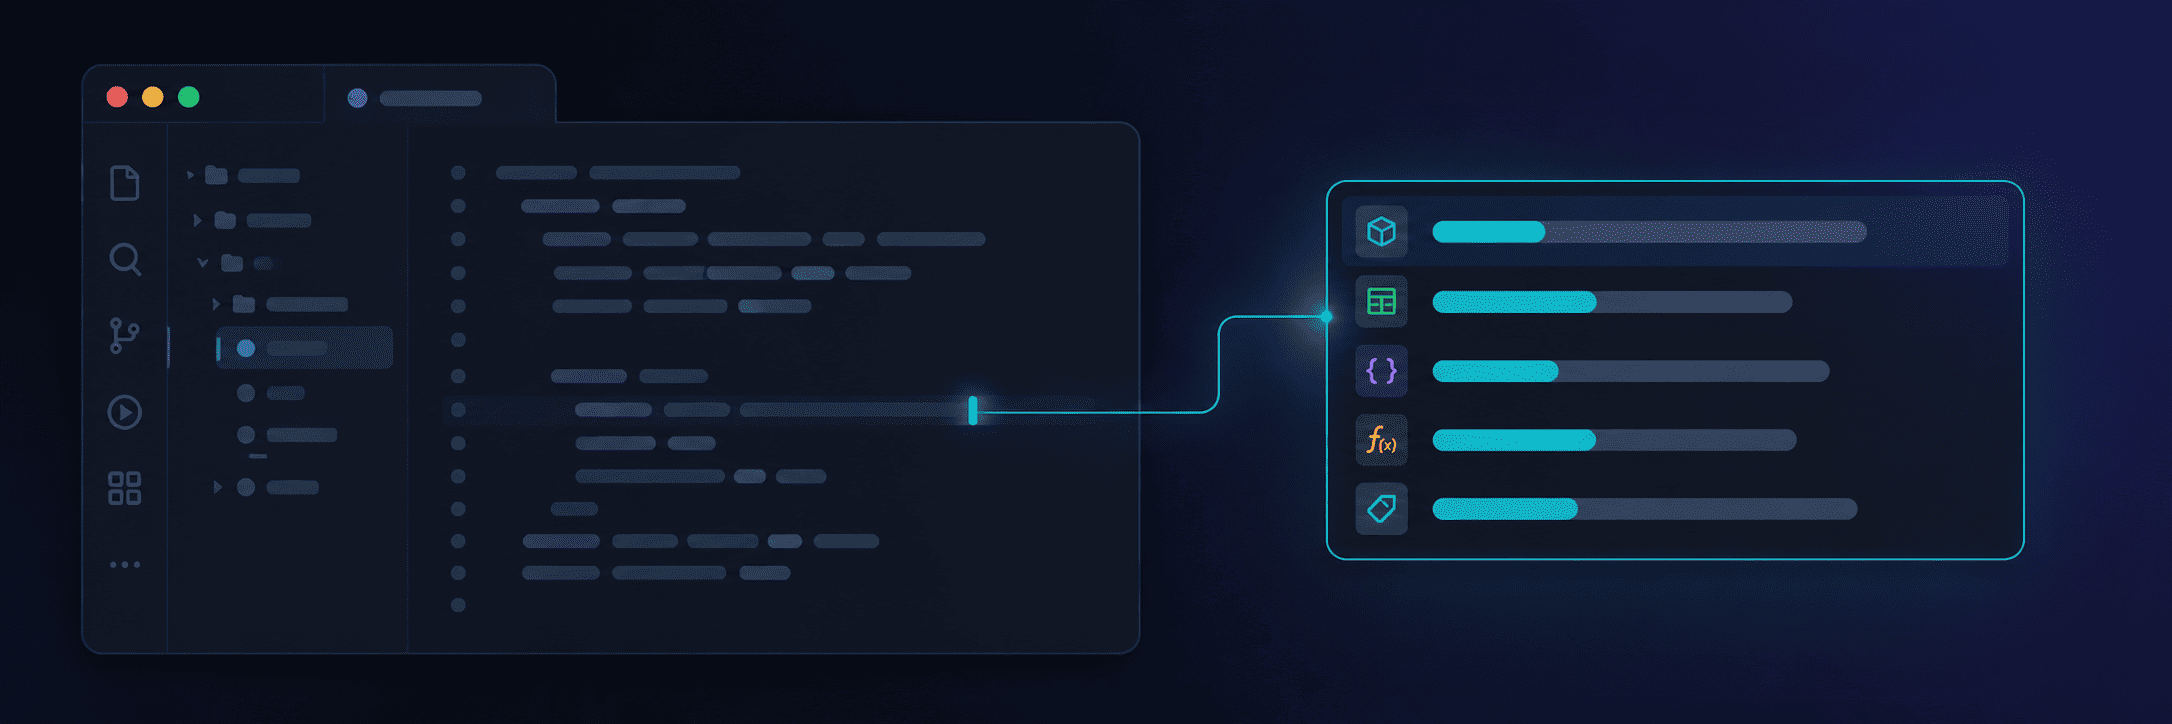
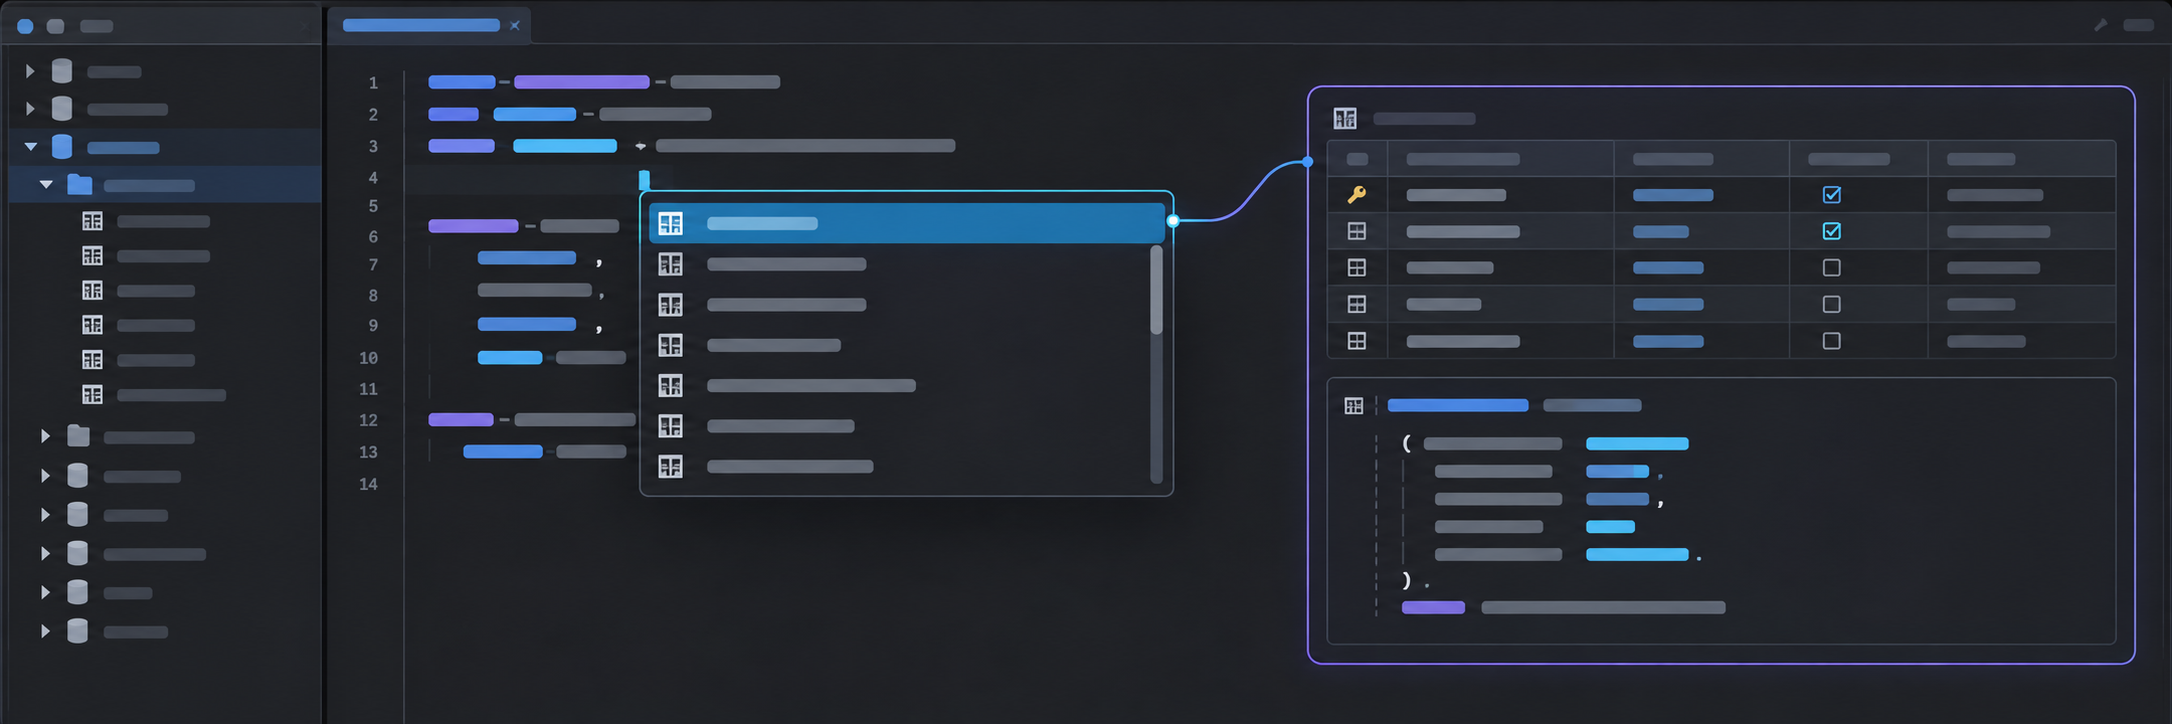
docs: 重製功能展示頁與 README 主視覺
- 調整單頁展示版面，加入中英文及明暗主題切換
- 選擇功能後自動播放，補齊操作示意動畫
- 更新首頁主視覺、替代文字與生成提示詞

diff --git a/docs/images/prompts.md b/docs/images/prompts.md
@@ -7,15 +7,27 @@
 ## `hero.png`
 
 ```text
-A wide modern developer-tool hero banner, 1200x400. Dark charcoal background with a
-subtle diagonal gradient toward deep indigo. On the left, an abstract stylized code
-editor panel: soft-focus rows of monospaced code in muted grey-blue, deliberately
-unreadable. On the right, a crisp floating autocomplete card with rounded corners, a
-thin light border and five list rows; each row has a small coloured glyph on the left
-and a horizontal bar standing in for a name, with the first few characters of each bar
-highlighted in bright cyan to suggest matched letters. A soft cyan glow links the
-editor to the card. Flat vector illustration, clean, high contrast, generous negative
-space. No logos, no people, no legible words or letters anywhere.
+Use case: ui-mockup
+Asset type: README hero image for SqlAssist, a SQL Server Management Studio 22 extension.
+Primary request: Create a polished, ultra-wide 3:1 developer-tool hero illustration
+showing the real core interaction: a dark SQL editor with an autocomplete popup, and a
+larger object-structure preview opening beneath it, both visually connected to the cursor.
+Scene/backdrop: SSMS-like charcoal interface, understated window chrome, query editor
+occupying the left and center. In the editor, a few restrained lines of syntax-colored
+SQL-shaped marks. The selected suggestion resembles a database table row. The preview
+presents a small table/schema grid and a short DDL code block. These should look like
+plausible technical UI, not a generic chatbot or AI dashboard.
+Style/medium: precise, high-end interface illustration, clean edges, subtle depth,
+restrained highlights.
+Composition/framing: panoramic 1200x400 proportion, all important panels within safe
+margins, balanced visual weight across the width; legible hierarchy when displayed 900px wide.
+Lighting/mood: focused, calm, professional; a subtle blue-cyan accent at the selected
+completion row and cursor, muted violet outline accents.
+Color palette: dark charcoal #252529, slate #34343a, blue-cyan #69bfe8, restrained
+violet #9489cc, white-grey text bars.
+Constraints: no actual readable text or letters anywhere, no fake labels, no people,
+no logos, no extra windows or unrelated UI. Show completion and schema preview clearly.
+A continuous full-bleed banner, not a graphic floating in empty space.
 ```
 
 ## `social-preview.png`

diff --git a/README.zh-TW.md b/README.zh-TW.md
@@ -9,7 +9,7 @@
 ![SSMS 22.9.x](https://img.shields.io/badge/SSMS-22.9.x-5c2d91)
 ![Windows x64](https://img.shields.io/badge/Windows-x64-0078d4)
 
-<p align="center"><img src="docs/images/hero.png" width="900" alt="SSMS 22 查詢編輯器中的 SqlAssist 建議清單與物件結構資訊"></p>
+<p align="center"><img src="docs/images/hero.png" width="900" alt="SSMS 深色編輯器中的補全清單與物件結構預覽示意圖"></p>
 
 SqlAssist 是安裝於 **SQL Server Management Studio 22** 的 VSIX，不是另一套編輯器。
 建議完全在本機計算；結構資訊只向目前連線的 SQL Server 查詢，不經雲端，也沒有 AI 模型參與。

diff --git a/README.md b/README.md
@@ -9,7 +9,7 @@
 ![SSMS 22.9.x](https://img.shields.io/badge/SSMS-22.9.x-5c2d91)
 ![Windows x64](https://img.shields.io/badge/Windows-x64-0078d4)
 
-<p align="center"><img src="docs/images/hero.png" width="900" alt="SqlAssist for SSMS 22"></p>
+<p align="center"><img src="docs/images/hero.png" width="900" alt="Dark SQL editor with completion and object structure preview"></p>
 
 An **SSMS 22** extension with local suggestions and metadata—no cloud or AI.
 
